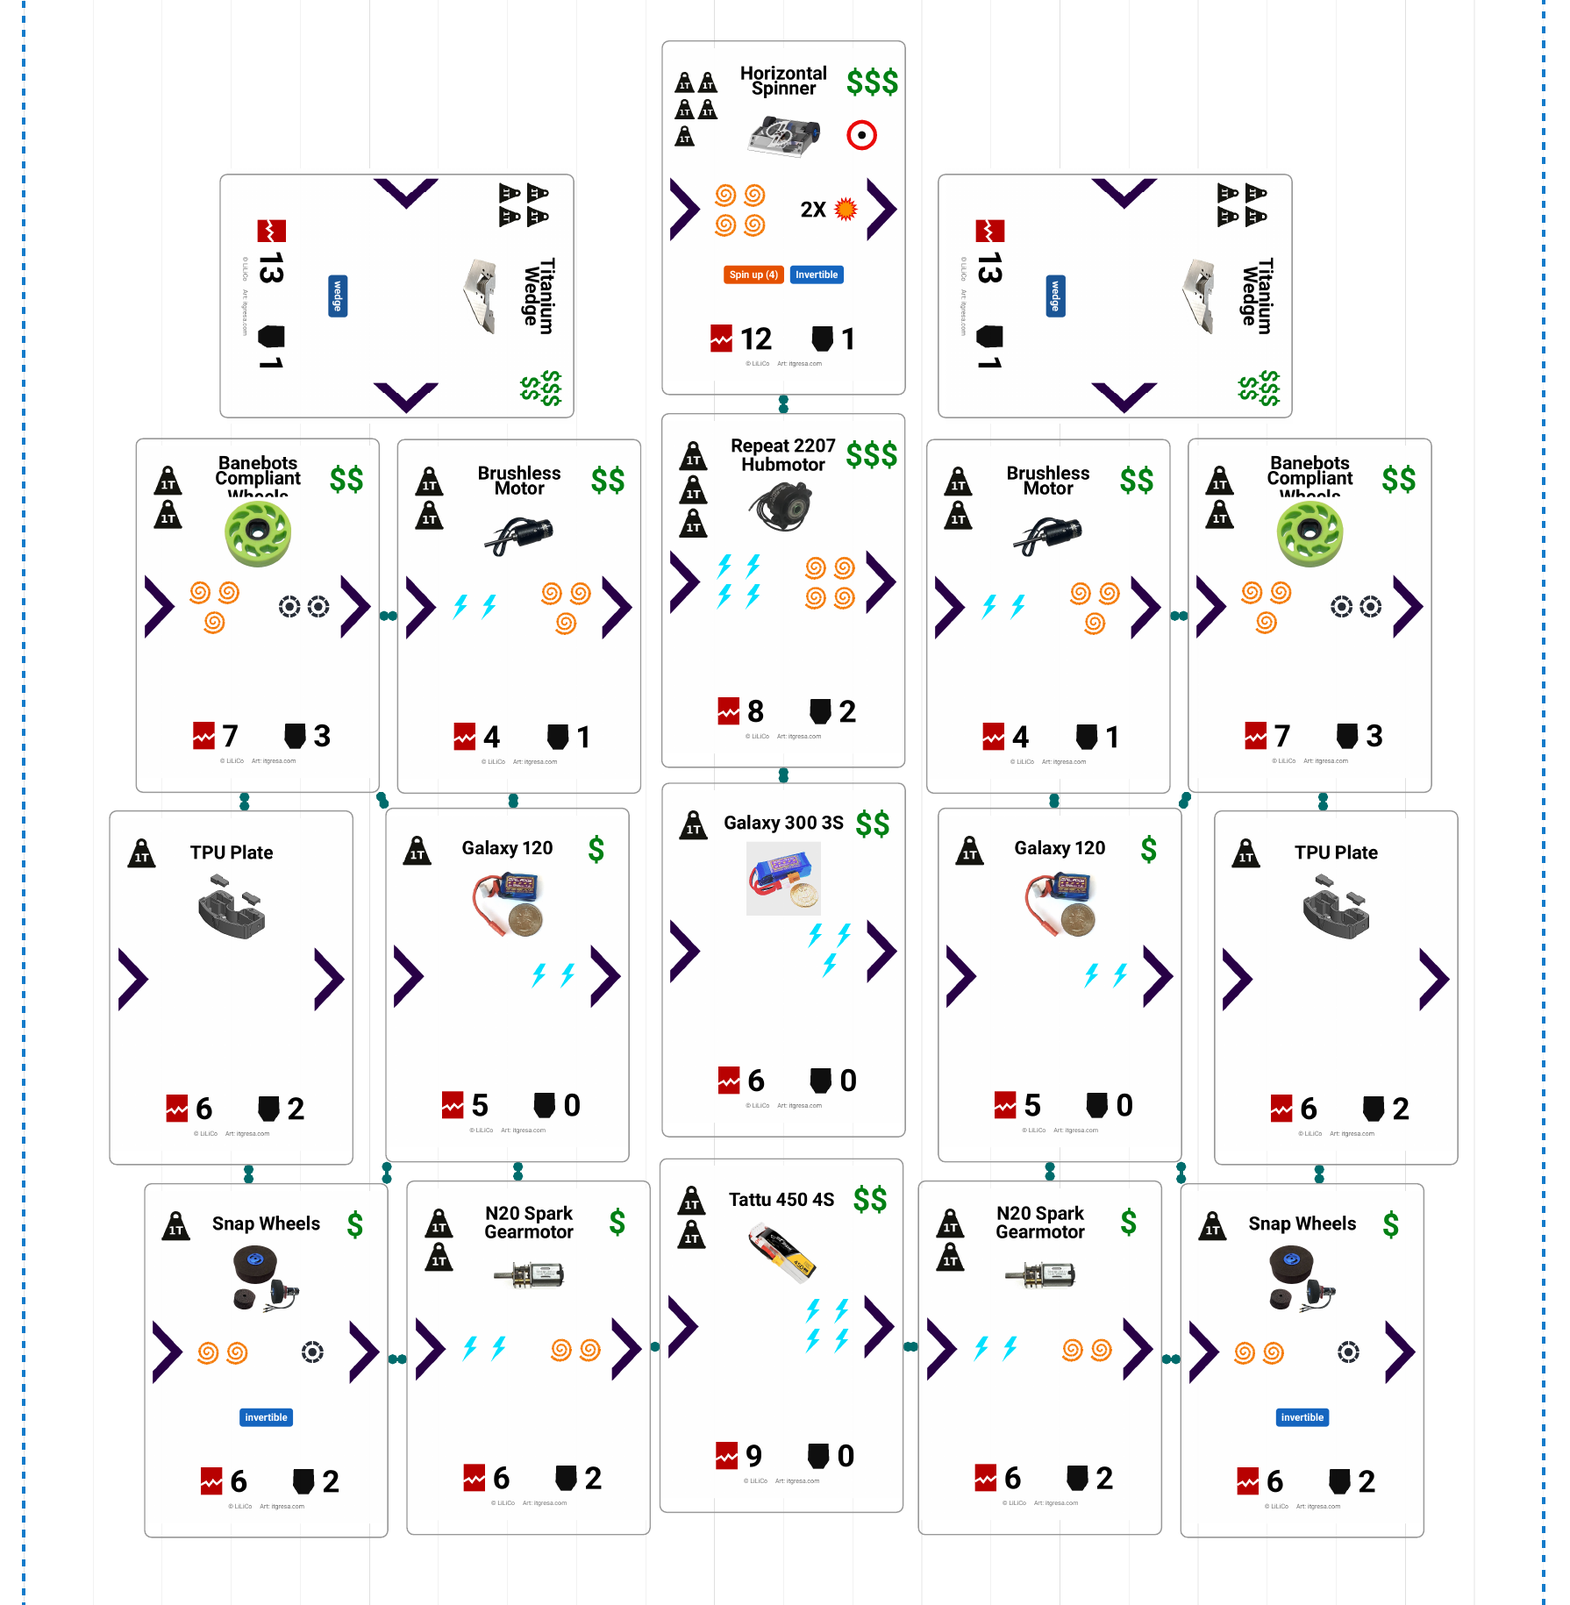
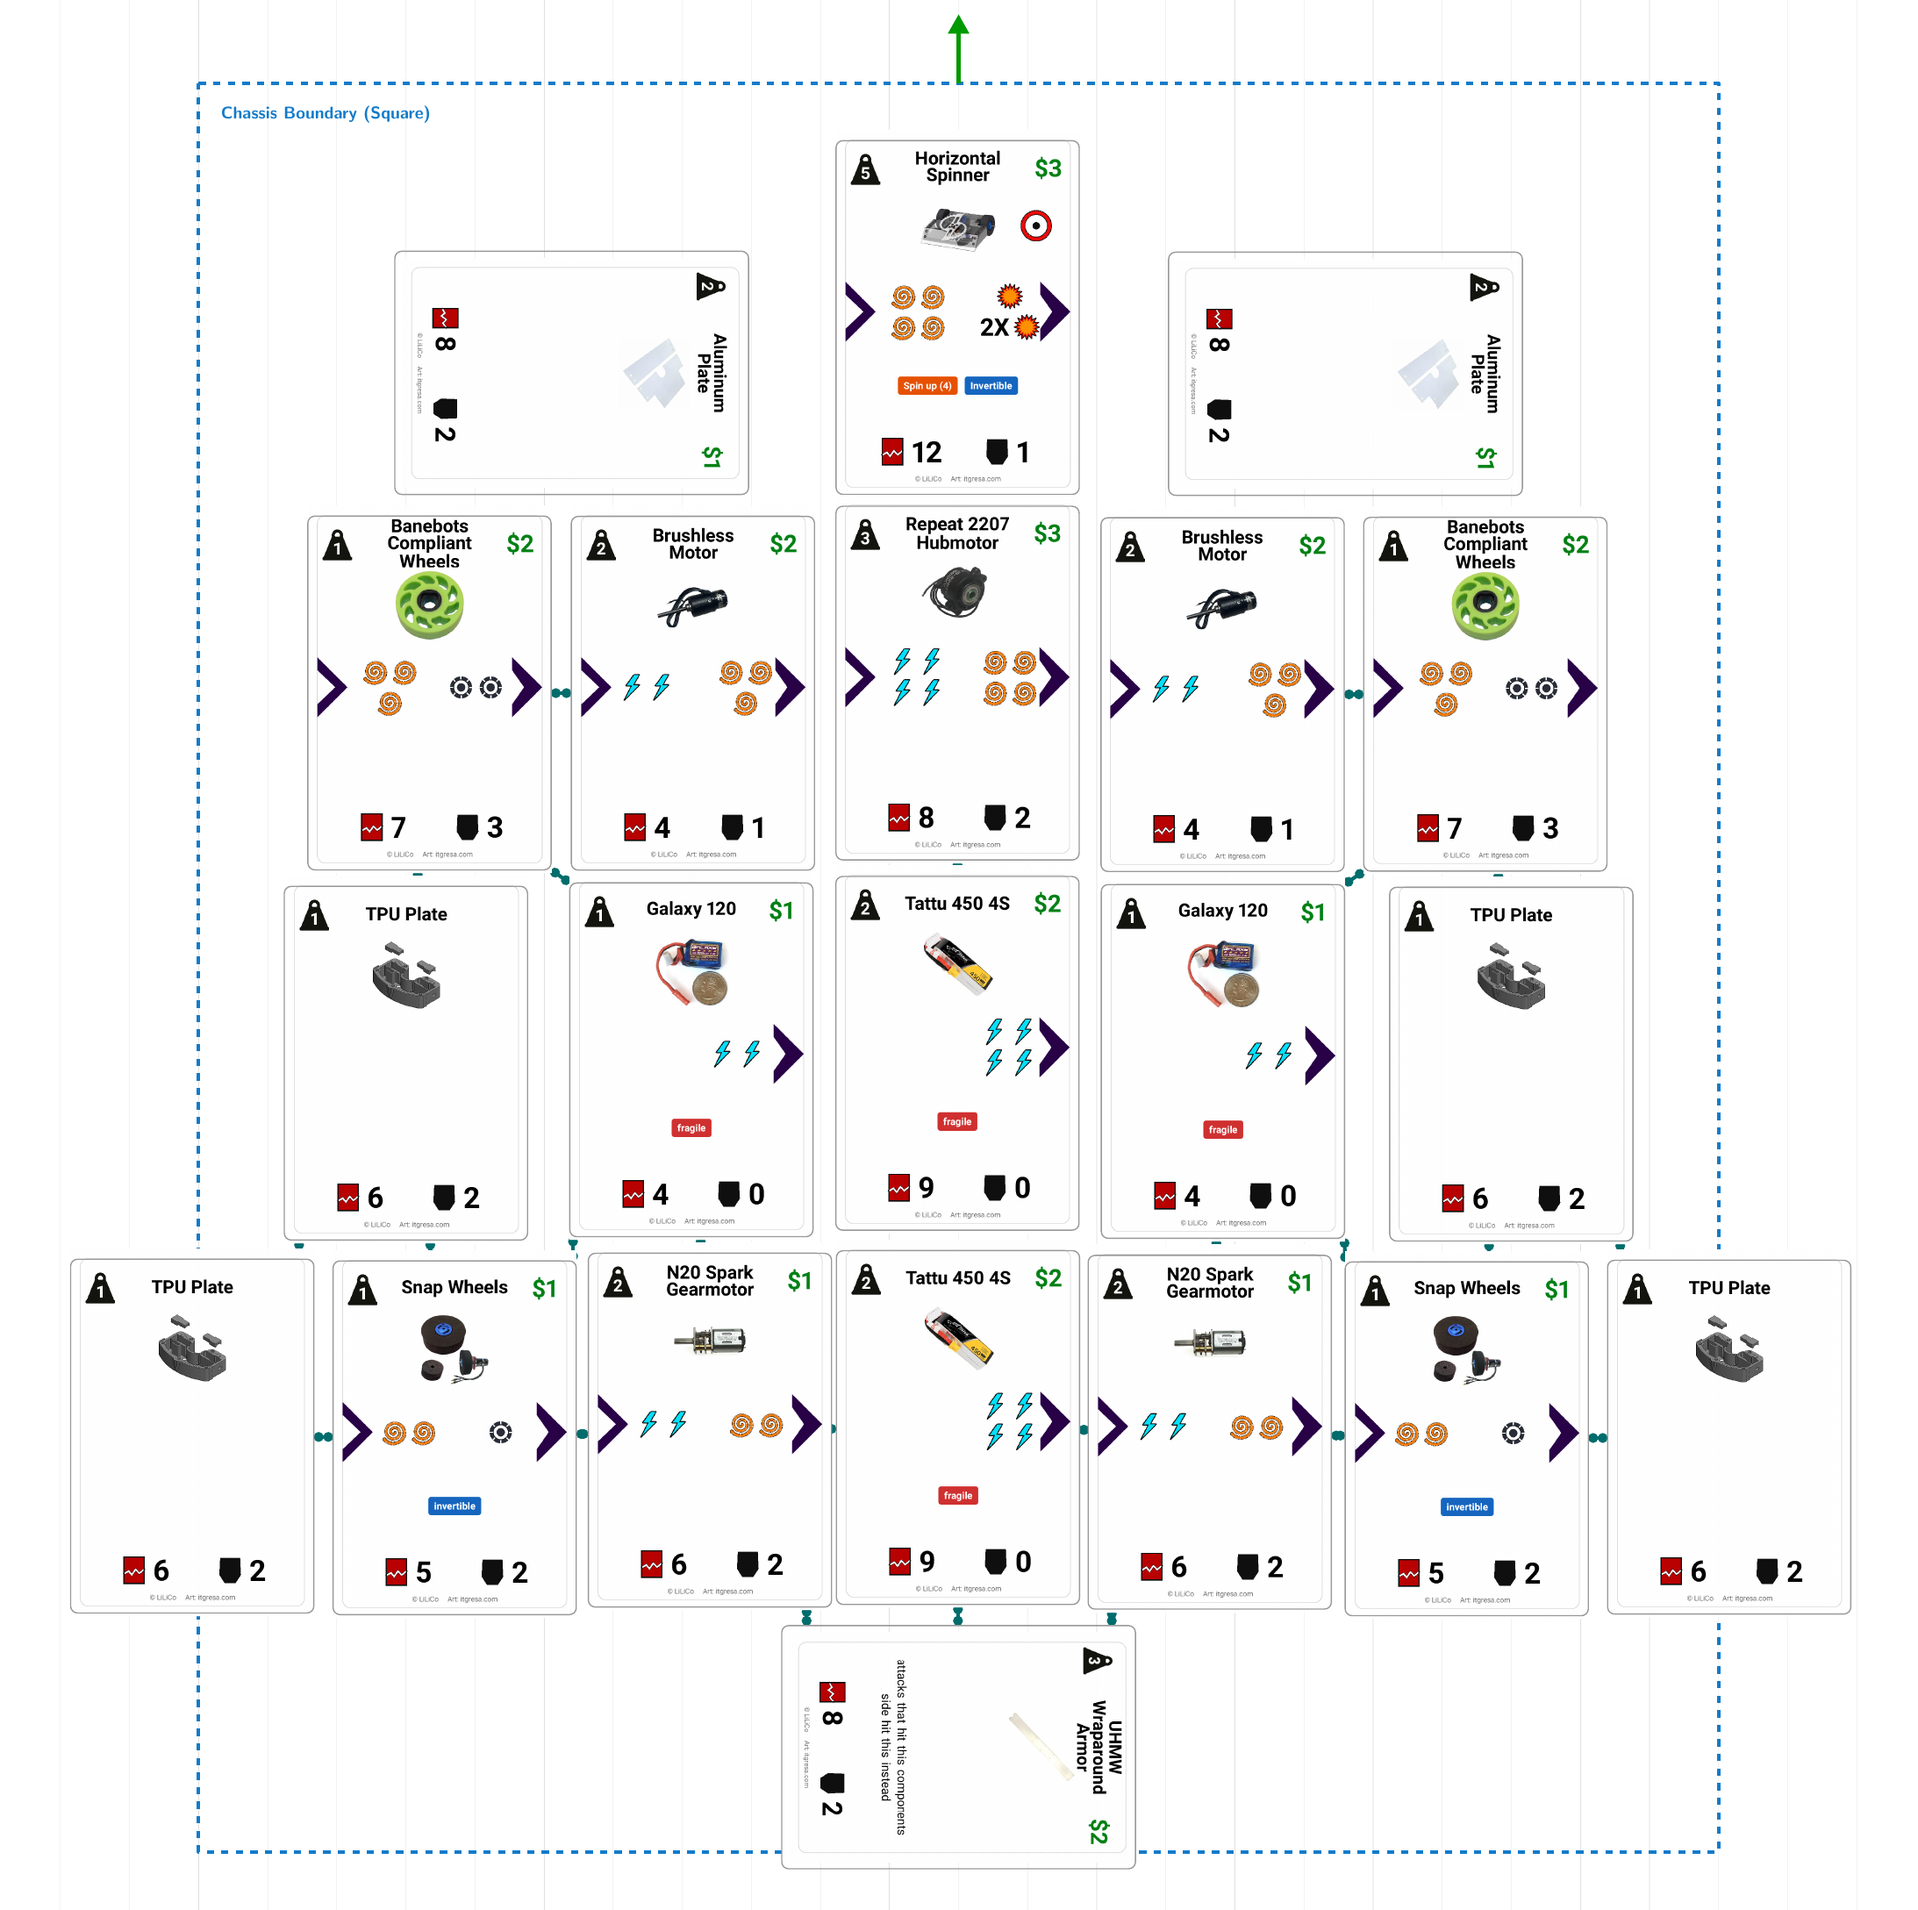
Regenerate example automata layout image for updated Vyper Spinner build

diff --git a/rules/combat_robotics_game.tex b/rules/combat_robotics_game.tex
@@ -640,10 +640,10 @@ If the parts of either robot that is touching is the weapon's active area (the r
     \node[font=\footnotesize\bfseries, text=arenaRed, align=center] at (1.85, 0.9) {Align Contact Line};
 
     % Right: Actual Automata Card Sheet Layout (Double Size!)
-    \node[anchor=west] at (7.0, 2.6) {\includegraphics[height=6.6cm]{images/automata_vyper_layout.png}};
+    \node[anchor=west] at (7.0, 3.35) {\includegraphics[height=6.2cm]{images/automata_vyper_layout.png}};
 
-    % Callout arrow to Titanium Wedge (Front-L)
-    \draw[-{Stealth[length=2.5mm]}, line width=2pt, draw=arenaRed] (6.8, 5.2) -- (8.4, 4.1) node[pos=0, above=1pt, font=\scriptsize\bfseries, text=arenaRed] {Hit: Titanium Wedge};
+    % Callout arrow to Aluminum Plate (Front-L)
+    \draw[-{Stealth[length=2.5mm]}, line width=2pt, draw=arenaRed] (7.0, 5.8) -- (8.6, 5.3) node[pos=0, above=1pt, font=\scriptsize\bfseries, text=arenaRed] {Hit: Aluminum Plate};
   \end{tikzpicture}%
   }
   \caption{Determining Contact Point along Movement Paths and Mapping to Automata Sheet}
@@ -692,47 +692,37 @@ Essentially a pushing match between colliding chassis surfaces:
     % Contact point
     \fill[primaryDark, name=contact2] (12.6, 5.6) circle (2.5pt) node[below=2pt, font=\scriptsize\bfseries] {Contact};
     % Vector B template & arrow from contact
-    \node[name=templateB2, anchor=south] at (12.6,5.6) [rotate=60, opacity=0.6] {\includegraphics[width=0.65cm]{images/template_straight.png}};
-    \draw[-{Stealth[length=3.5mm]}, line width=2pt, draw=amberNote!80!black] (templateB2.south) -- (templateB2.north) node[midway, below right=-1pt, font=\scriptsize\bfseries, text=amberNote!80!black] {Remainder B};
+    \node[name=templateB2, anchor=center] at (12.6,5.6) [rotate=60, opacity=0.6] {\includegraphics[width=0.65cm]{images/template_straight.png}};
+    \draw[-{Stealth[length=3.5mm]}, line width=2pt, draw=amberNote!80!black] (templateB2.center) -- (templateB2.north) node[midway, above left=-1pt, font=\scriptsize\bfseries, text=amberNote!80!black] {Remainder B};
     % Displaced Template A attached to end of B
     \node[name=templateA2, anchor=south] at (templateB2.north) [rotate=-35, opacity=0.6] {\includegraphics[width=0.65cm]{images/template_straight.png}};
-    \draw[-{Stealth[length=3.5mm]}, line width=2pt, draw=accentBlue] (templateA2.south) -- (templateA2.north) node[midway, below right=-2pt, font=\scriptsize\bfseries, text=accentBlue] {Displaced Remainder A};
+    \draw[-{Stealth[length=3.5mm]}, line width=2pt, draw=accentBlue] (templateA2.south) -- (templateA2.north) node[midway, above left=-2pt, font=\scriptsize\bfseries, text=accentBlue] {Displaced Remainder A};
     % Resultant net vector line
-    \draw[-{Stealth[length=3.5mm]}, line width=2.4pt, draw=arenaRed, dashed] (templateB2.south) -- (templateA2.north) node[pos=0.45, above=1pt, sloped, font=\footnotesize\bfseries, text=arenaRed] {Net Pushing Vector};
+    \draw[-{Stealth[length=3.5mm]}, line width=2.4pt, draw=arenaRed, dashed] (templateB2.center) -- (templateA2.north) node[pos=0.45, below=1pt, sloped, font=\footnotesize\bfseries, text=arenaRed] {Net Pushing Vector};
 
     % PANEL 3: Step 3 (Joint Push Along Net Vector)
     \draw[fill=white, draw=boxBorder, line width=0.8pt, rounded corners=3pt] (0, 0.0) rectangle (7.9, 4.4);
     \node[fill=primaryDark, text=white, font=\footnotesize\bfseries, rounded corners=2pt, anchor=north west] at (0.15, 4.25) {Step 3: Joint Push Along Net Vector};
 
     % Net line
-    \draw[-{Stealth[length=3.5mm]}, line width=2.4pt, draw=arenaRed] (1.7, 1.2) -- (4.6, 3.0) node[pos=0.25, above=1pt, sloped, font=\footnotesize\bfseries, text=arenaRed] {Pushing Line};
+    \draw[-{Stealth[length=3.5mm]}, line width=2.4pt, draw=arenaRed] (3.3, 0.5) -- (3.6, 2.0) node[pos=0.25, above=1pt, sloped, font=\footnotesize\bfseries, text=arenaRed] {Pushing Line};
 
     % Initial contact ghosts
-    \node at (1.6, 1.2) [rotate=-25] {\includegraphics[width=1.4cm]{images/mini_bot_ghost_triangle_line.png}};
-    \node at (2.4, 1.3) [rotate=75] {\includegraphics[width=1.4cm]{images/mini_bot_ghost_wide_line.png}};
+    \node at (3.2, 0.4) [rotate=-25] {\includegraphics[width=1.4cm]{images/mini_bot_ghost_triangle_line.png}};
+    \node at (4.0, 0.5) [rotate=75] {\includegraphics[width=1.4cm]{images/mini_bot_ghost_wide_line.png}};
 
     % Pushed final robots
-    \node at (4.0, 2.6) [rotate=-25] {\includegraphics[width=1.75cm]{images/mini_bot_triangle_line.png}};
-    \node at (4.8, 2.9) [rotate=75] {\includegraphics[width=1.75cm]{images/mini_bot_wide_line.png}};
+    \node at (3.0, 2.6) [rotate=-25] {\includegraphics[width=1.75cm]{images/mini_bot_triangle_line.png}};
+    \node at (3.8, 2.9) [rotate=75] {\includegraphics[width=1.75cm]{images/mini_bot_wide_line.png}};
 
     % PANEL 4: Step 4 (Wall Impact & 1-Unit Separation)
     \draw[fill=white, draw=boxBorder, line width=0.8pt, rounded corners=3pt] (8.3, 0.0) rectangle (16.2, 4.4);
     \node[fill=primaryDark, text=white, font=\footnotesize\bfseries, rounded corners=2pt, anchor=north west] at (8.45, 4.25) {Step 4: 1-Unit Separation};
 
-    % % Arena Wall on right
-    % \fill[wallBlack] (15.2, 0.1) rectangle (15.8, 4.3);
-    % \node[text=white, font=\scriptsize\bfseries, rotate=90] at (15.5, 2.2) {ARENA WALL};
-
-    % % Bot B in direct physical contact with wall
-    % \node at (14.2, 2.9) [rotate=75] {\includegraphics[width=1.75cm]{images/mini_bot_wide_line.png}};
-    % % Small textless impact star placed above the contact point
-    % \node[star, star points=6, star point ratio=1.5, fill=arenaRed, draw=arenaRed!60!black, line width=0.5pt, inner sep=1.8pt] at (15.15, 3.55) {};
-    % \node[font=\scriptsize\bfseries, text=arenaRed, align=center] at (11.4, 3.3) {Throw = Lost Distance};
-
     % Separation after collision
-    \draw[{Stealth[length=2.5mm]}-{Stealth[length=2.5mm]}, line width=2pt, draw=accentBlue] (9.8, 1.8) -- (11.0, 1.8) node[midway, below=2pt, font=\scriptsize\bfseries, text=accentBlue] {1 Unit Separation};
-    \node at (9.6, 1.9) [rotate=-25] {\includegraphics[width=1.75cm]{images/mini_bot_triangle_line.png}};
-    \node at (11.4, 1.9) [rotate=75] {\includegraphics[width=1.75cm]{images/mini_bot_wide_line.png}};
+    \draw[{Stealth[length=2.5mm]}-{Stealth[length=2.5mm]}, line width=2pt, draw=accentBlue] (9.8, 2.8) -- (11.0, 2.8) node[midway, below=4pt, font=\scriptsize\bfseries, text=accentBlue] {1 Unit Separation};
+    \node at (9.6, 2.9) [rotate=-25] {\includegraphics[width=1.75cm]{images/mini_bot_triangle_line.png}};
+    \node at (11.4, 2.9) [rotate=75] {\includegraphics[width=1.75cm]{images/mini_bot_wide_line.png}};
   \end{tikzpicture}
   \caption{Step-by-Step Resolution of Inert Contact (Pushing Match)}
   \label{fig:diagram_inert_contact}

diff --git a/scripts/generate_diagram_assets.py b/scripts/generate_diagram_assets.py
@@ -10,8 +10,13 @@ from __future__ import annotations
 
 import math
 import os
+import sys
 from pathlib import Path
 from typing import List, Optional, Tuple
+
+WORKSPACE_DIR = Path(__file__).resolve().parent.parent
+if str(WORKSPACE_DIR) not in sys.path:
+    sys.path.insert(0, str(WORKSPACE_DIR))
 
 os.environ.setdefault("MPLCONFIGDIR", "/tmp/matplotlib_diagrams")
 import matplotlib
@@ -350,6 +355,52 @@ def create_miniature(
     print(f"Generated sprite: {out_file}")
 
 
+def generate_example_automata_layout() -> None:
+    """Renders and crops the example robot layout (Vyper Spinner) for the rules doc."""
+    import subprocess
+    import tempfile
+    from PIL import Image
+    import scripts.generate_automata_sheets as gas
+
+    vyper_csv = Path("automata/Vyper_Spinner.csv")
+    if not vyper_csv.exists():
+        print(f"Skipping automata layout: {vyper_csv} not found")
+        return
+
+    print("Generating example automata layout from automata/Vyper_Spinner.csv...")
+    vyper = gas.process_robot_csv(vyper_csv)
+    tikz = gas.generate_robot_page_tikz(vyper)
+
+    # Filter out title plate and action table plate so layout is clean
+    lines = tikz.splitlines()
+    filtered = []
+    skip = False
+    for l in lines:
+        if "% Title & Specs Information Plate" in l:
+            skip = True
+        elif "% Component Edge Connections" in l:
+            skip = False
+        if not skip:
+            filtered.append(l)
+
+    clean_tikz = "\n".join(filtered)
+    with tempfile.TemporaryDirectory() as tmpdir:
+        pdf_path = Path(tmpdir) / "vyper_clean.pdf"
+        tex_content = gas.generate_latex_document([clean_tikz])
+        gas.compile_latex_to_pdf(tex_content, pdf_path)
+        subprocess.run(
+            ["pdftoppm", "-png", "-r", "200", str(pdf_path), str(Path(tmpdir) / "vyper_clean_200")],
+            check=True,
+        )
+        rendered_png = Path(tmpdir) / "vyper_clean_200-1.png"
+        sheet = Image.open(rendered_png)
+        # Crop bounds centered on chassis: x=[561, 2747], y=[94, 2271]
+        crop = sheet.crop((561, 94, 2747, 2271))
+        out_file = OUTPUT_DIR / "automata_vyper_layout.png"
+        crop.save(out_file)
+        print(f"Generated automata layout: {out_file} ({crop.size[0]}x{crop.size[1]})")
+
+
 def main():
     print("Generating miniature robot sprites for TikZ diagrams...")
 
@@ -372,7 +423,10 @@ def main():
     create_miniature("mini_bot_nightwing.png", chassis="Wide", color=NIGHTWING_INDIGO, name="A", weapon="Circle", forks=False)
     create_miniature("mini_bot_opponent_square.png", chassis="Square", color=CRIMSON, name="B", weapon="Circle")
 
-    print("All miniature sprites generated successfully!")
+    # Automata layout for rules doc
+    generate_example_automata_layout()
+
+    print("All diagram assets generated successfully!")
 
 
 if __name__ == "__main__":
